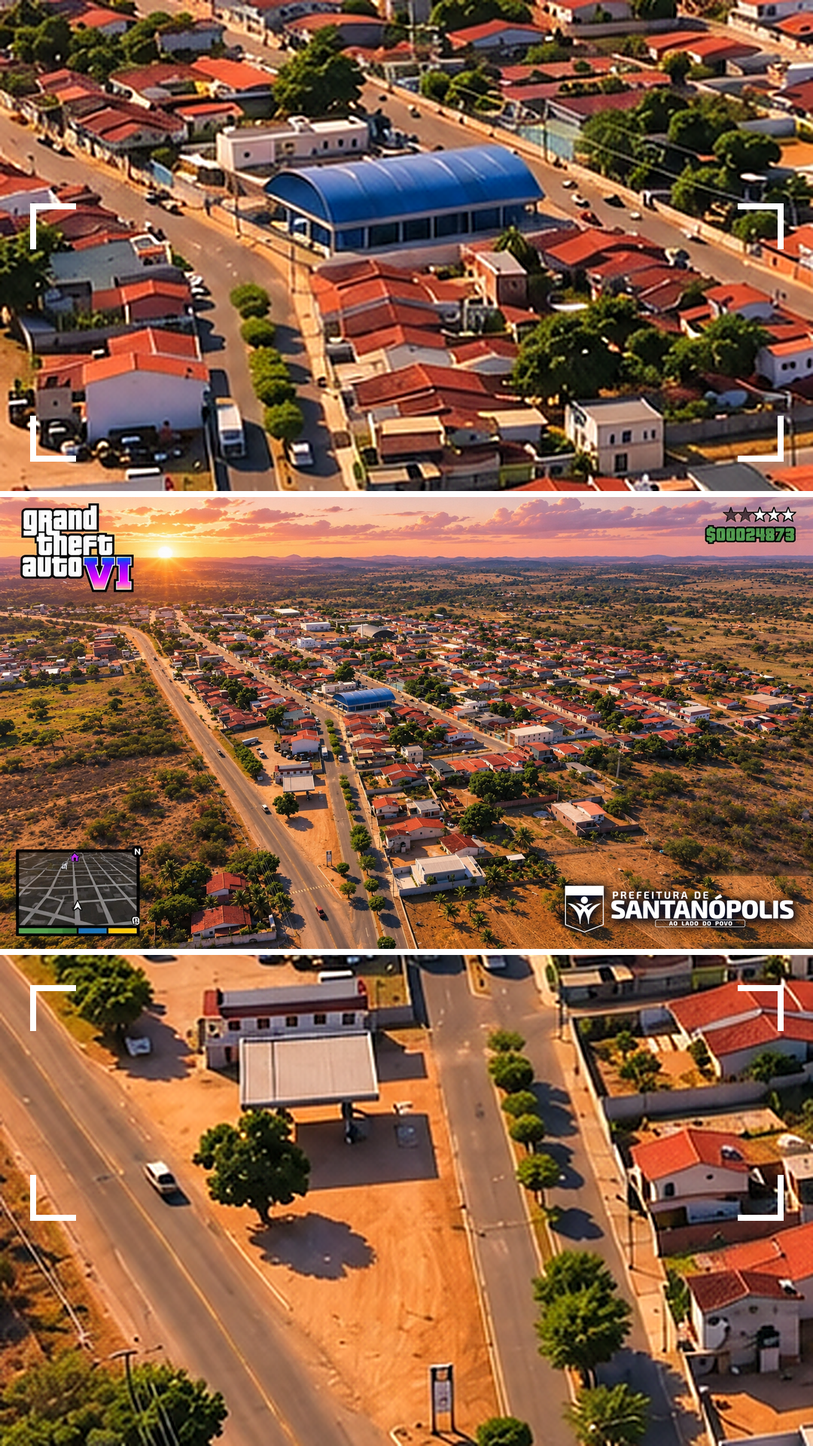
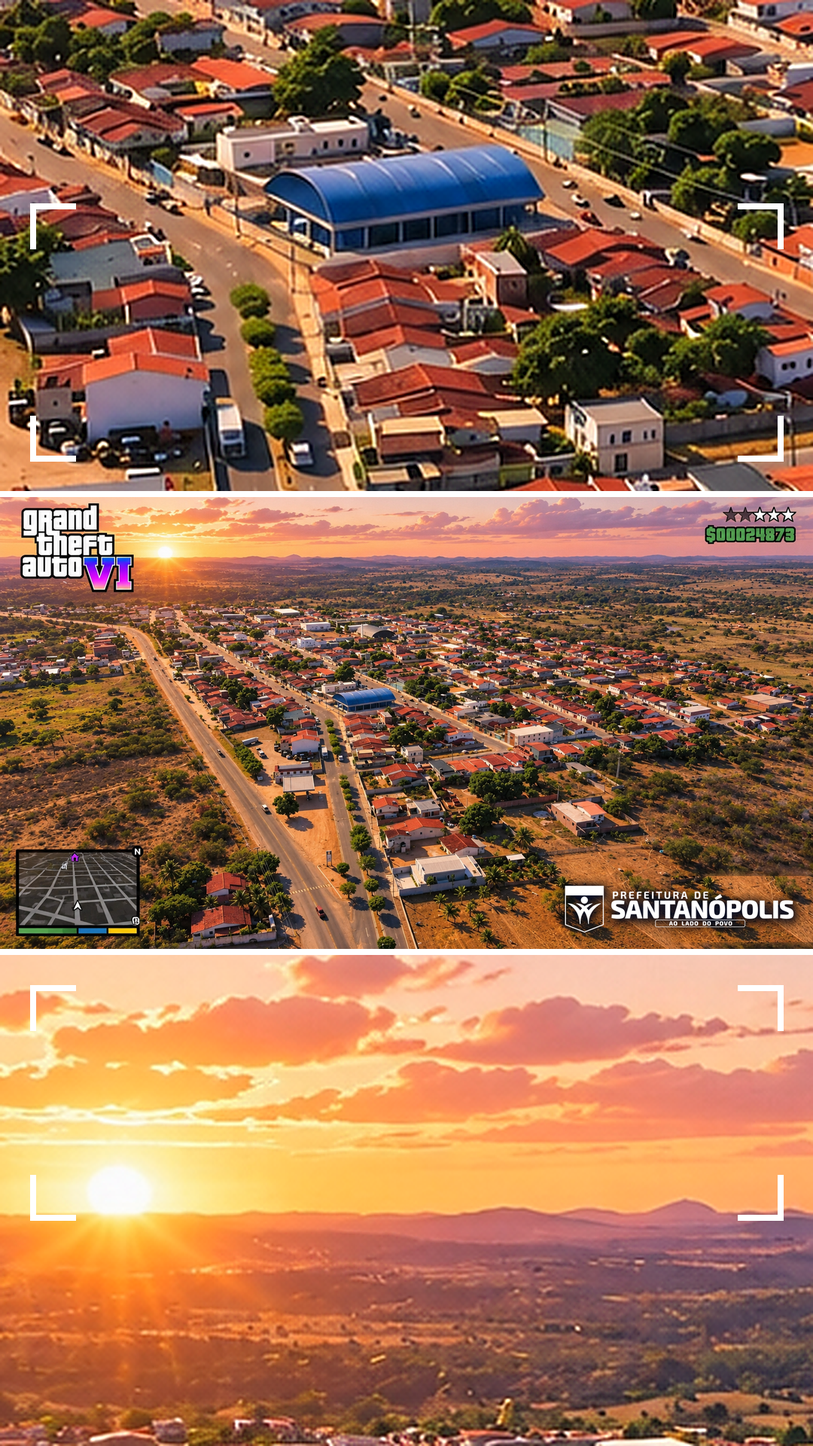
Prefeitura: story com pôr do sol ampliado embaixo
Claude-Session: https://claude.ai/code/session_01RAcsiAuhSr8b2N4HPmYEAM

diff --git a/clientes/prefeitura-santanopolis/entregas/2026-11-20-santanopolis-modo-jogo/story-detalhes.py b/clientes/prefeitura-santanopolis/entregas/2026-11-20-santanopolis-modo-jogo/story-detalhes.py
@@ -11,7 +11,7 @@ def zoom(box):
     c = c.filter(ImageFilter.UnsharpMask(2, 90, 2)); return ImageEnhance.Color(c).enhance(1.08)
 r = W/bh; w1 = 380; h1 = round(w1/r)
 topo = zoom((560, 330, 560+w1, 330+h1))     # centro: cobertura azul e ruas
-base = zoom((470, 540, 470+w1, 540+h1))     # avenida, posto e canteiro arborizado
+base = zoom((284, 8, 284+w1, 8+h1))         # pôr do sol no horizonte
 st = Image.new("RGB", (W, H)); st.paste(topo, (0, 0)); st.paste(base, (0, y+fg.height)); st.paste(fg, (0, y))
 d = ImageDraw.Draw(st)
 for yy in (y, y+fg.height): d.rectangle([0, yy-4, W, yy+3], fill=(255,255,255))
